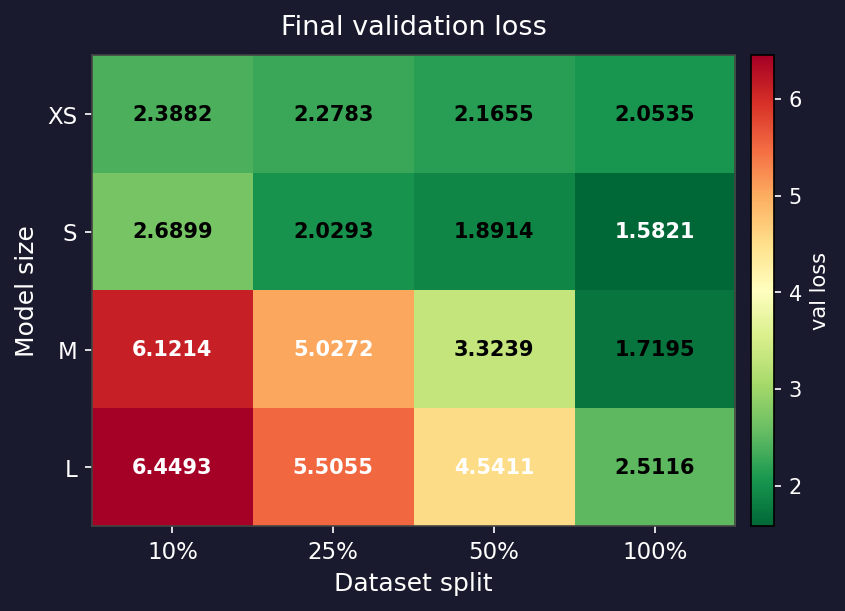
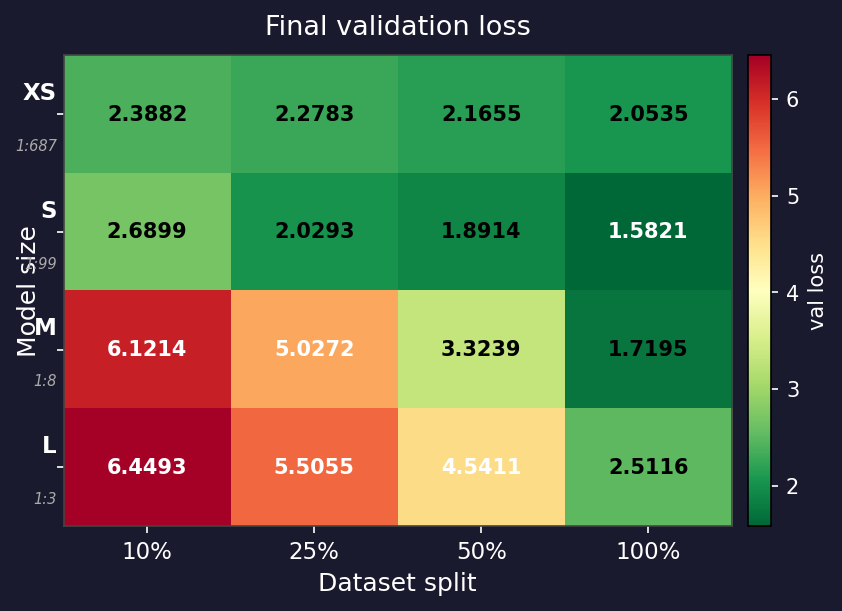
add ratio annotation to figure 1

diff --git a/plot.py b/plot.py
@@ -37,6 +37,12 @@ def val_loss(size, split):
             return r["final_val_loss"]
     return None
 
+# One ratio per model size (constant across splits — depends only on N)
+SIZE_RATIO = {}
+for r in data:
+    if r["size"] and r.get("ratio") and r["size"] not in SIZE_RATIO:
+        SIZE_RATIO[r["size"]] = r["ratio"]
+
 
 # ── fig 1 · loss grid heatmap ─────────────────────────────────────────────────
 fig, ax = plt.subplots(figsize=(6, 4.2))
@@ -63,13 +69,28 @@ for i, size in enumerate(SIZE_ORDER):
 ax.set_xticks(range(len(SPLIT_ORDER)))
 ax.set_xticklabels([f"{s}%" for s in SPLIT_ORDER], color="white", fontsize=11)
 ax.set_yticks(range(len(SIZE_ORDER)))
-ax.set_yticklabels(SIZE_ORDER, color="white", fontsize=11)
+ax.set_yticklabels([], color="white")   # drawn manually below
 ax.set_xlabel("Dataset split", color="white", fontsize=12)
 ax.set_ylabel("Model size", color="white", fontsize=12)
 ax.set_title("Final validation loss", color="white", fontsize=13, pad=10)
 ax.tick_params(colors="white")
 for spine in ax.spines.values():
     spine.set_edgecolor("#444")
+
+# y-axis: size name + N:D ratio below it
+# get_yaxis_transform() → x in axes coords, y in data coords
+for i, size in enumerate(SIZE_ORDER):
+    ax.text(-0.01, i - 0.18, size,
+            transform=ax.get_yaxis_transform(),
+            ha="right", va="center",
+            color="white", fontsize=11, fontweight="bold",
+            clip_on=False)
+    ratio_str = SIZE_RATIO.get(size, "")
+    ax.text(-0.01, i + 0.27, ratio_str,
+            transform=ax.get_yaxis_transform(),
+            ha="right", va="center",
+            color="#aaaaaa", fontsize=7, fontstyle="italic",
+            clip_on=False)
 
 cb = fig.colorbar(im, ax=ax, pad=0.02)
 cb.ax.yaxis.set_tick_params(color="white")
